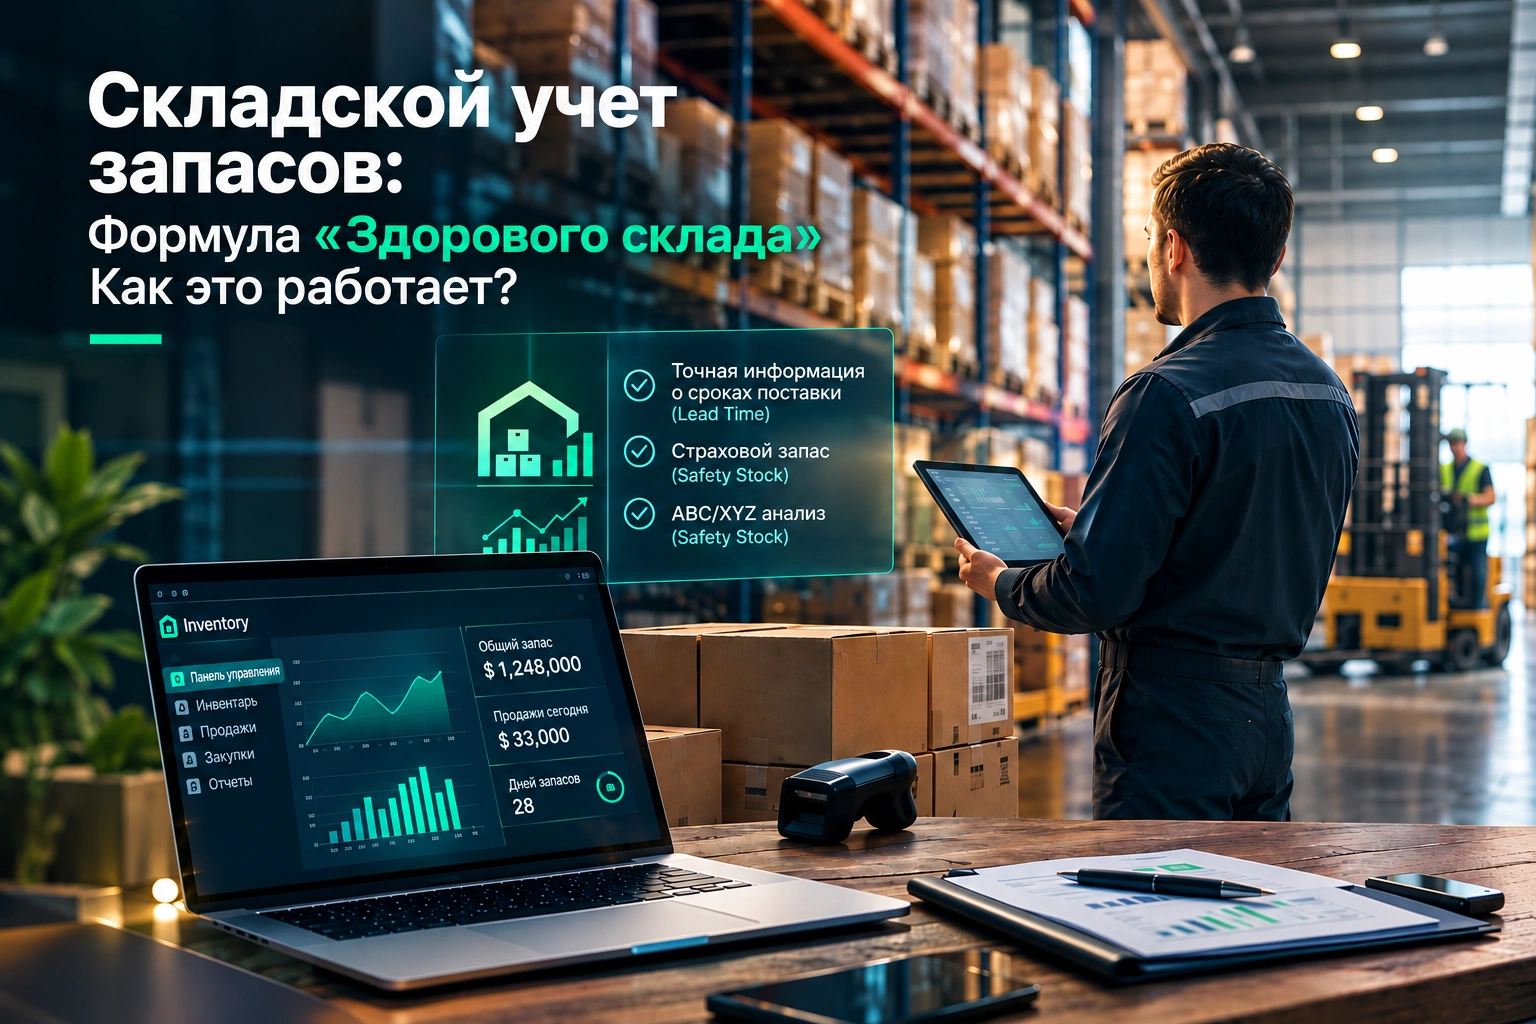
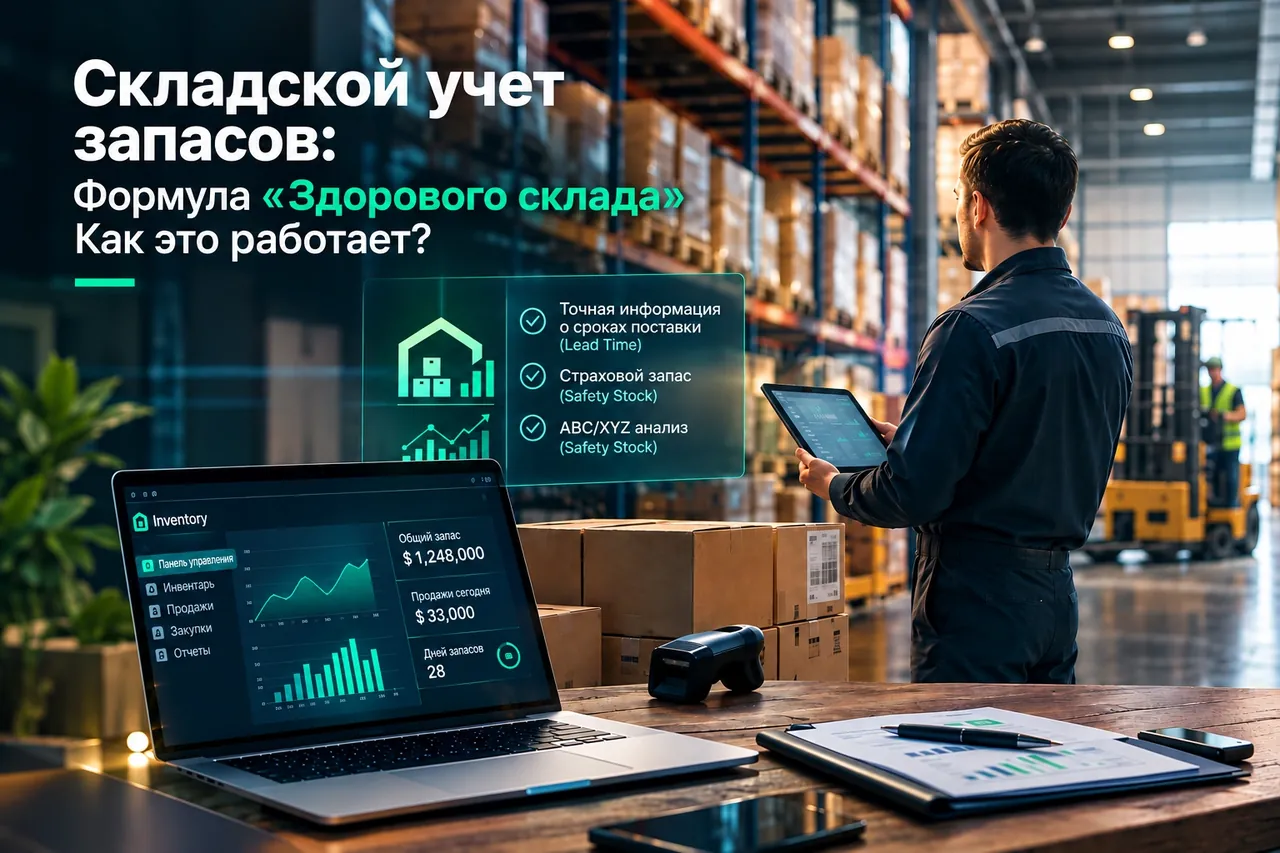
fix(blog): статья о здоровом складе — регистр, metaTitle, пара слагов, правки UZ, лёгкие обложки
Поверх PR #18 Бахтиёра: обычный регистр в заголовках, без второго бренда
в metaTitle, категория Склад/Ombor, слаги RU↔UZ связаны, в UZ исправлены
15 дней и опечатка, обложки пережаты до 1280×853 q80.

diff --git a/src/content/blog-imported.ts b/src/content/blog-imported.ts
@@ -2956,11 +2956,11 @@ export const importedPosts: BlogPost[] = [
 
   {
     slug: "upravlenie-zapasami-formula-zdorovogo-sklada",
-    title: "Управление Складскими Запасами: Как Работает Формула «Здорового Склада»",
-    metaTitle: "Здоровый склад: управление запасами | BIS-PRO",
+    title: "Управление складскими запасами: как работает формула «здорового склада»",
+    metaTitle: "Здоровый склад: управление запасами",
     excerpt: "Как рассчитать оптимальный остаток на складе? Разбор формулы здорового склада через Lead Time, страховой запас (Safety Stock) и ABC/XYZ аналитику.",
     readingTime: "4 минуты",
-    category: "Выбор системы",
+    category: "Склад",
     image: "/design/blog/upravlenie-zapasami-formula-zdorovogo-sklada.webp",
     body: [
       {
@@ -2973,8 +2973,7 @@ export const importedPosts: BlogPost[] = [
       },
       {
         type: "h3",
-        text: "В Чем Измеряется «Здоровый Размер» Склада?",
-        // text: "Почему автоматизация склада не работает без автоматизации бизнеса?",
+        text: "В чём измеряется «здоровый размер» склада?",
       },
       {
         type: "p",
@@ -3003,7 +3002,7 @@ export const importedPosts: BlogPost[] = [
       
       {
         type: "h3",
-        text: "Практический Расчет: $1,000,000, «Уснувший» на Полке",
+        text: "Практический расчёт: $1,000,000, «уснувший» на полке",
       },
       {
         type: "p",
@@ -3036,7 +3035,7 @@ export const importedPosts: BlogPost[] = [
       
       {
         type: "p",
-        text: " **•** ** Фактический склад равен $1 млн ** система сбалансирована, оборотные средства работают с нормальной скоростью, риск срыва поставок минимален.",
+        text: " **•** ** Фактический склад равен $1 млн: ** система сбалансирована, оборотные средства работают с нормальной скоростью, риск срыва поставок минимален.",
       },
       {
         type: "p",
@@ -3049,7 +3048,7 @@ export const importedPosts: BlogPost[] = [
       
       {
         type: "h3",
-        text: "Нормативы Страхового Запаса по Категориям Товаров",
+        text: "Нормативы страхового запаса по категориям товаров",
       },
       {
         type: "p",
@@ -3074,7 +3073,7 @@ export const importedPosts: BlogPost[] = [
     
       {
         type: "h3",
-        text: "Анализ по SKU: Скрытые Перекосы Внутри Склада",
+        text: "Анализ по SKU: скрытые перекосы внутри склада",
       },
        {
         type: "p",
@@ -3094,7 +3093,7 @@ export const importedPosts: BlogPost[] = [
       },
       {
         type: "h3",
-        text: "Автоматизация Запасов в SAP Business One",
+        text: "Автоматизация запасов в SAP Business One",
       },
       {
         type: "p",
@@ -3123,19 +3122,19 @@ export const importedPosts: BlogPost[] = [
       
       {
         type: "p",
-        text: " **•** Рассчитайте объем избыточных остатков через [Калькулятор оборотного капитала.](/simulator)",
+        text: " **•** Рассчитайте объем избыточных остатков через [калькулятор оборотного капитала](/simulator).",
       },
       {
         type: "p",
-        text: " **•** Изучите опыт нормализации запасов сырья в [ Кейсе мебельного производства BRAUF Wood.](/portfolio/brauf) ",
+        text: " **•** Изучите опыт нормализации запасов сырья в [кейсе мебельного производства BRAUF Wood](/portfolio/brauf).",
       },
       {
         type: "p",
-        text: " **•** Узнайте больше о складских контурах на странице [  Решения для оптовой торговли.](/wholesale-trade)",
+        text: " **•** Узнайте больше о складских контурах на странице [Решения для оптовой торговли](/wholesale-trade).",
       },
       {
         type: "p",
-        text: " **•** Закажите аудит структуры складских остатков на странице [ Контакты BIS-PRO ](/contacts) ",
+        text: " **•** Закажите аудит структуры складских остатков на странице [Контакты BIS-PRO](/contacts).",
       },
     ],
   },

diff --git a/src/content/uz/blog-imported.ts b/src/content/uz/blog-imported.ts
@@ -3061,16 +3061,16 @@ export const importedPosts: BlogPost[] = [
 
   {
     slug: "ombor-zaxiralarini-boshqarish-soglom-ombor-formulasi",
-    title: "Ombor Zaxiralarini Boshqarish: Korxonada 'Sog‘lom Ombor' Formulasi Qanday Ishlaydi?",
-    metaTitle: "Ombor Zaxiralarini Boshqarish: Sog‘lom Ombor",
+    title: "Ombor zaxiralarini boshqarish: korxonada «sog‘lom ombor» formulasi qanday ishlaydi?",
+    metaTitle: "Ombor zaxiralarini boshqarish: sog‘lom ombor",
     excerpt: "Omborda qancha pul muzlab yotganini qanday hisoblash mumkin? Lead time, safety stock va ABC tahlil orqali sog‘lom ombor zaxirasini hisoblash qo‘llanmasi.",
     readingTime: "4 daqiqa",
-    category: "Tizim tanlash",
+    category: "Ombor",
     image: "/design/blog/ombor-zaxiralarini-boshqarish-soglom-ombor-formulasi.webp",
     body: [
       {
         type: "p",
-        text: "Savdo va ishlab chiqarish kompaniyalarida eng katta mablag‘ aynan omborga ko‘milgan bo‘ladi. Ko‘plab tadbirkorlar 'Omborda tovar qancha ko‘p bo‘lsa, shuncha yaxshi, xaridor kelganda yo‘q demaymiz' degan qarash bilan ish yuritishadi.",
+        text: "Savdo va ishlab chiqarish kompaniyalarida eng katta mablag‘ aynan omborga ko‘milgan bo‘ladi. Ko‘plab tadbirkorlar «Omborda tovar qancha ko‘p bo‘lsa, shuncha yaxshi, xaridor kelganda yo‘q demaymiz» degan qarash bilan ish yuritishadi.",
       },
       {
         type: "p",
@@ -3078,7 +3078,7 @@ export const importedPosts: BlogPost[] = [
       },
       {
         type: "h3",
-        text: "Tovar Qoldig‘ining 'Sog‘lom Miqdori' Nimaga Bog‘liq?",
+        text: "Tovar qoldig‘ining «sog‘lom miqdori» nimaga bog‘liq?",
       },
      
       {
@@ -3091,7 +3091,7 @@ export const importedPosts: BlogPost[] = [
       },
       {
         type: "p",
-        text: " **1.** ** Yetkazib berish muddati (Lead Time) ** Xaridga buyurtma berilgan kundan tovar omborga kelib tushguncha necha kun o‘tadi? ",
+        text: " **1.** ** Yetkazib berish muddati (Lead Time): ** Xaridga buyurtma berilgan kundan tovar omborga kelib tushguncha necha kun o‘tadi? ",
       },
       {
         type: "p",
@@ -3107,7 +3107,7 @@ export const importedPosts: BlogPost[] = [
       },
       {
         type: "h3",
-        text: "Amaliy Misol: Omborda Uxlayotgan $1,000,000",
+        text: "Amaliy misol: omborda uxlayotgan $1,000,000",
       },
       {
         type: "p",
@@ -3143,16 +3143,16 @@ export const importedPosts: BlogPost[] = [
       },
       {
         type: "p",
-        text: " **•** ** Agar omborda $2 mln lik tovar yotgan bo‘lsa ** Bu 60 kunlik zaxira degani. Kompaniyaning $1,000,000 puli omborda keraksiz ravishda uxlab yotibdi. Bu mablag‘ni yangi filiallarga, marketingga tikish yoki bank kreditlaridan qutulish uchun ishlatish mumkin edi.",
+        text: " **•** ** Agar omborda $2 mln lik tovar yotgan bo‘lsa: ** Bu 60 kunlik zaxira degani. Kompaniyaning $1,000,000 puli omborda keraksiz ravishda uxlab yotibdi. Bu mablag‘ni yangi filiallarga, marketingga tikish yoki bank kreditlaridan qutulish uchun ishlatish mumkin edi.",
       },
       {
         type: "p",
-        text: " **•** ** Agar omborda $500,000 lik tovar bo‘lsa: ** Bu bor-yo‘g‘i 15 kunlik zaxira. Mahsulot kelishiga esa 20 kun kerak. Demak, 5 kundan keyin omborda tovar tugaydi (stockout), xaridor qaytib ketadi va biznes savdoni boy beradi.",
+        text: " **•** ** Agar omborda $500,000 lik tovar bo‘lsa: ** Bu bor-yo‘g‘i 15 kunlik zaxira. Mahsulot kelishiga esa 20 kun kerak. Demak, 15 kundan keyin omborda tovar tugaydi (stockout), xaridor qaytib ketadi va biznes savdoni boy beradi.",
       },
       
       {
         type: "h3",
-        text: "Xavfni Qanday Aniqlash Kerak? Jami Ombor Emas, SKU Tahlili",
+        text: "Xavfni qanday aniqlash kerak? Jami ombor emas, SKU tahlili",
       },
       {
         type: "p",
@@ -3173,7 +3173,7 @@ export const importedPosts: BlogPost[] = [
      
       {
         type: "h3",
-        text: "SAP Business One Zaxiralarni Qanday Avtomatlashtiradi?",
+        text: "SAP Business One zaxiralarni qanday avtomatlashtiradi?",
       },
 
       {
@@ -3211,7 +3211,7 @@ export const importedPosts: BlogPost[] = [
       },
        {
         type: "p",
-        text: "Ulgurji savdoda ombor nazorati bo‘yicha batafsil [Ulgurji savdo yechimlari](/uz/wholesale-trade) ahifasida tanishing.",
+        text: "Ulgurji savdoda ombor nazorati bo‘yicha batafsil [Ulgurji savdo yechimlari](/uz/wholesale-trade) sahifasida tanishing.",
       },
         {
         type: "p",

diff --git a/src/content/post-slugs.ts b/src/content/post-slugs.ts
@@ -26,6 +26,8 @@ const RU_TO_UZ: Record<string, string> = {
   "sap-vs-1c-sravnenie-erp-sistem-dlya-biznesa": "sap-yoki-1c-erp-tizimlar-taqoslash-biznes-uchun",
   // Статья Бахтиёра о CCC (PR #16): слаги на двух языках разные.
   "oborot-rastet-a-deneg-net-ccc": "biznesda-pul-aylanish-sikli-cash-flow-boshqaruvi",
+  // Статья Бахтиёра о здоровом складе (PR #18).
+  "upravlenie-zapasami-formula-zdorovogo-sklada": "ombor-zaxiralarini-boshqarish-soglom-ombor-formulasi",
 };
 
 const UZ_TO_RU: Record<string, string> = Object.fromEntries(

diff --git a/WORKLOG.md b/WORKLOG.md
@@ -1,5 +1,22 @@
 # BIS · журнал работ
 
+## 2026-09-18 — PR #18 Бахтиёра: статья о «здоровом складе» (норматив запасов), RU + UZ
+
+Сделано:
+- Новая статья: RU `/post/upravlenie-zapasami-formula-zdorovogo-sklada`,
+  UZ `/uz/post/ombor-zaxiralarini-boshqarish-soglom-ombor-formulasi`; пара слагов в `post-slugs.ts`.
+- Поверх его коммита `d56e691`: обычный регистр в title и h3 (RU и UZ), снят `| BIS-PRO` из
+  metaTitle, удалён закомментированный дубль, категория `Выбор системы` → `Склад`/`Ombor`.
+- UZ: «5 kundan keyin tovar tugaydi» → 15 (в RU 15 суток, ошибка перевода), «ahifasida» → «sahifasida»,
+  одинарные кавычки → «», пропущенные двоеточия после жирных подводок.
+- Обложки: RU 1536×1024 321К → 1280×853 117К, UZ 223К → 92К (webp q80).
+- Локально: обе страницы 200, title, hreflang RU↔UZ, 10 внутренних ссылок из статьи 200.
+Грабли:
+- Ссылка `[Калькулятор оборотного капитала.](/simulator)` живёт в трёх статьях — замены по файлу
+  ограничивать блоком новой статьи (срез от `slug:`), иначе assert на количестве.
+Осталось:
+- [ ] PR #15 (og:url без `/ru`) открыт с 08.09 — ждёт решения Умида
+
 ## 2026-09-17 — PR #17 Бахтиёра: ссылки в тексте статей в цвете бренда
 
 Сделано:
